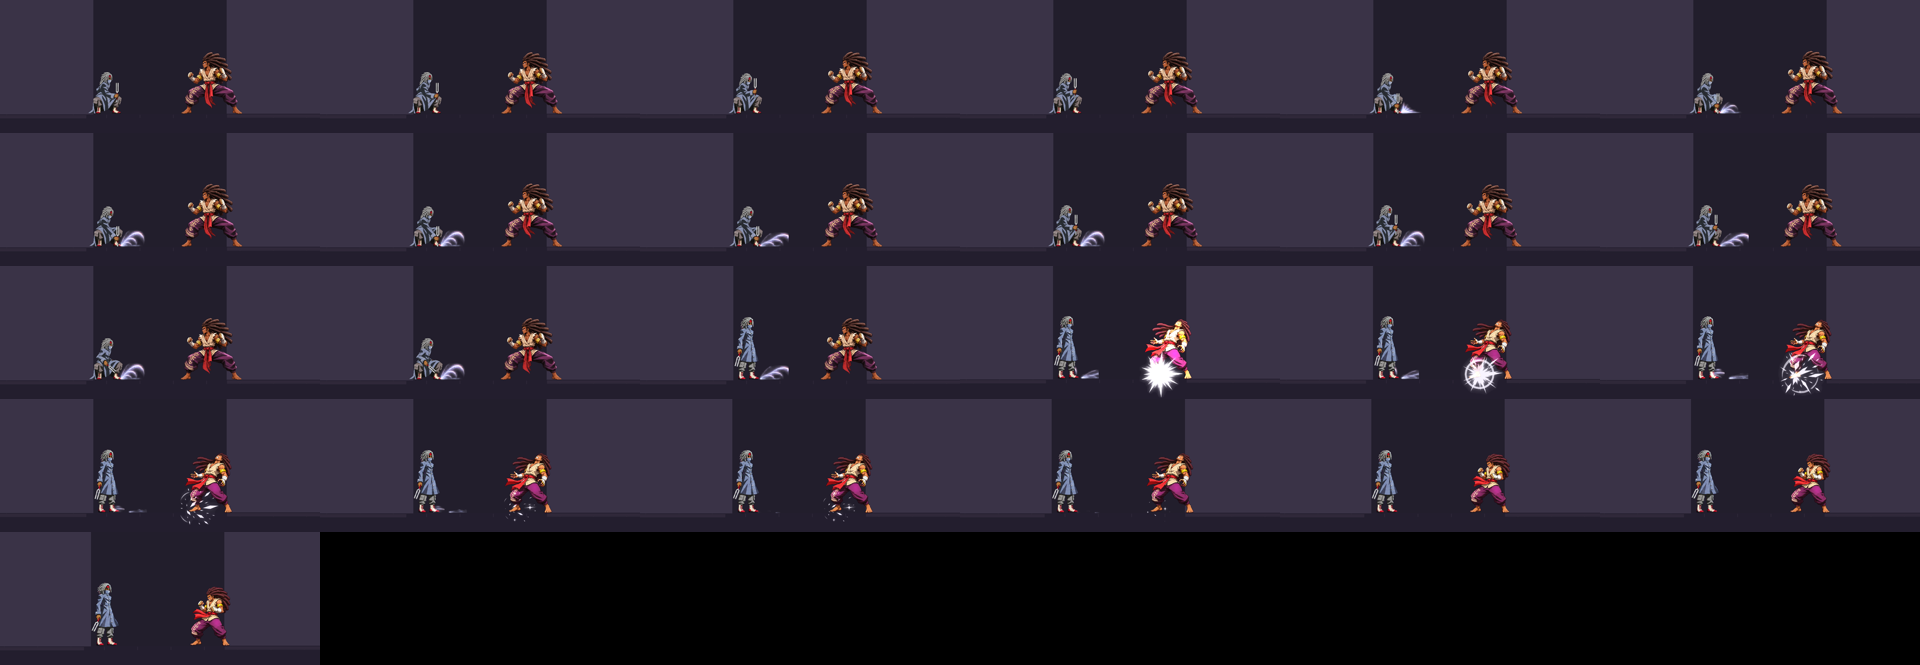
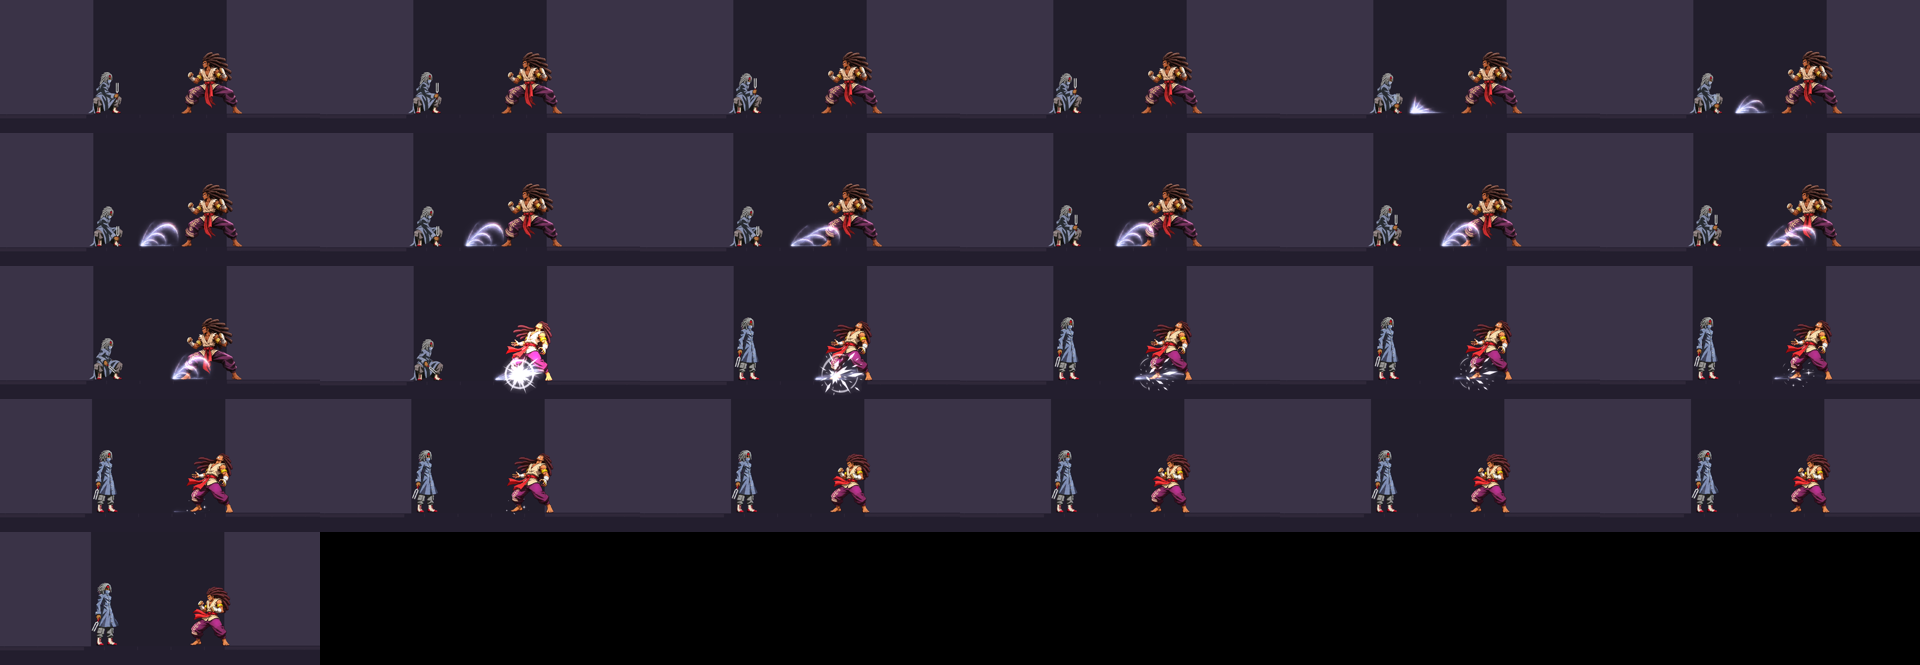
War'Teun: dashes match Avner's distance, explosions half size, 2M ripple fixed
Ground dashes no longer run underneath the teleport (601 / 438 px from a real double tap,
now 197 / 186 like Avner; tested with real inputs). burstArt.scale halves the drawn burst.
The ripple is recut on its grid and drawn on the moving projectile. Includes the owner's
box-editor changes to the character file made meanwhile.

Claude-Session: https://claude.ai/code/session_01XDQqBAyT34HEXnArFczUN3

diff --git a/tests/warteun.test.js b/tests/warteun.test.js
@@ -109,10 +109,6 @@ test('Vacuum: the burst is a mid that is blocked holding either way; out of rang
 
 test('Vacuum: his dashes and air dash leave none; his warping normals, j.S and the special warps each leave one', () => {
   for (const s of ['dashF', 'backdash']) { const g = setup(W, 1000); play(g, W, s, 25); assert.equal(vacs(g).length, 0, s); }
-  const g0 = setup(W, 1000);
-  const x0 = g0.players[0].x;
-  play(g0, W, 'dashF', 25);
-  assert.equal(g0.players[0].x, x0 + px(FILE.states.dashF.timeline.find((e) => e.warp).warp.x), 'the dash is a teleport of that distance');
   for (const s of ['airdashF', 'airdashB']) {
     const g = setup(W, 1000);
     g.players[0].y = px(200);
@@ -141,6 +137,48 @@ test('Vacuum: his dashes and air dash leave none; his warping normals, j.S and t
   const dists = ['L', 'M', 'H'].map((b) => rawMove(`warpStep${b}`).timeline.find((e) => e.warp).warp.x);
   assert.ok(fuses[0] < fuses[1] && fuses[1] < fuses[2]);
   assert.ok(dists[0] < dists[1] && dists[1] < dists[2]);
+});
+
+test("His ground dashes, done with real double taps, cover exactly Avner's distance and he does not slide", () => {
+  const AVNER = loadChar('data/characters/avner/avner.toska.json');
+  const WA = loadWorld(AVNER, AVNER);
+  WA.battle.maxGapUnits = 0;
+  for (const [name, taps, state] of [['forward', '6 5 6 5*70', 'dashF'], ['back', '4 5 4 5*70', 'backdash']]) {
+    const travel = (world) => {
+      const g = setup(world, 1200);
+      const p = g.players[0];
+      const x0 = p.x;
+      const xs = [];
+      let dashed = false;
+      for (const r of script(taps)) { step(g, [r, 0], world); dashed = dashed || p.state === state; if (p.state === state) xs.push(p.x); }
+      assert.ok(dashed, `${name}: the dash came out`);
+      return { total: p.x - x0, xs };
+    };
+    const his = travel(W), avners = travel(WA);
+    assert.equal(his.total, avners.total, `${name} dash: the same distance as Avner's`);
+    // A teleport: during the dash he stands in one place, then in another. Never anything in between.
+    assert.equal(new Set(his.xs).size, 2, `${name} dash: he does not slide`);
+  }
+});
+
+test("2M's ripple travels along the floor and its picture travels with it", () => {
+  const R = FILE.projectiles.ripple;
+  assert.ok(!R.sprite.ground && !R.sprite.rooted, 'drawn on the moving hit, not pinned where it began');
+  const g = setup(W, 1200);
+  const seen = [];
+  for (const r of script('2+M 2*60')) { step(g, [r, 0], W); const q = g.projectiles.find((x) => x.kind === 'ripple'); if (q) seen.push(q.x); }
+  assert.ok(seen.length > 30);
+  const went = (seen[seen.length - 1] - seen[0]) / 100;
+  assert.ok(went > 280 && went < 360, `it runs about a third of the screen (${went} px)`);
+  // It hits low, where its picture is.
+  const h = setup(W, 300);
+  const cues = [];
+  for (const r of script('2+M 2*50')) { step(h, [r, 0], W); cues.push(...h.cues.map((c) => ({ ...c }))); }
+  assert.ok(cues.some((c) => HIT.includes(c.type) && c.move === 'ripple'), 'it reaches a standing opponent 300 px away');
+  const b = setup(W, 150); // nearer: holding back walks them away from it
+  const blocked = [];
+  for (const r of script('2+M 2*50')) { step(b, [r, RAW.RIGHT], W); blocked.push(...b.cues.map((c) => c.type)); }
+  assert.ok(blocked.some((t) => HIT.includes(t)) && !blocked.includes('block'), 'standing guard does not stop it: it is a low');
 });
 
 test('5H and 6H step forward but never through the opponent: they stop in front', () => {

diff --git a/src/render/fight-renderer.js b/src/render/fight-renderer.js
@@ -691,7 +691,7 @@ export function createFightRenderer(ctx, W, H) {
       drawSheetFrame(def, d.sprite, Math.min(d.sprite.count - 1, index), x, y, pr.facing);
       return;
     }
-    const t = pr.age - pr.boom, k = (pr.size ?? 10000) / 10000;
+    const t = pr.age - pr.boom, k = ((pr.size ?? 10000) / 10000) * (A.scale ?? 1); // burstArt.scale: the burst layers' own size
     const sized = (sp) => (k === 1 ? sp : { ...sp, scale: (sp.scale ?? 1) * k });
     const layer = (L, age, lift = 0) => {
       if (!L || age < 0) return;

diff --git a/CLAUDE.md b/CLAUDE.md
@@ -61,7 +61,7 @@ doesn't read code. **Every report to him is in plain words.**
 Current through **Phase 9** (all phases of the brief done), plus **Avner: Brand of Light** (report `docs/reports/avner-brand.md`) and his art (`avner-art.md`, `avner-hook.md`, `avner-moves.md`, `avner-vigil.md`).
 
 - **Avner is the Lampbearer now** (Nov 23; report `docs/reports/avner-lampbearer.md`, tests `tests/lampbearer.test.js`). The old chain kit (Brand of Light, Vigil, Lumen Hook, Reel, Lightstep: the two bullets marked *archived* below) lives whole in `data/characters/_archive/avner_chain/` (not loaded by the game; its tests `avner-moves`, `avner-vigil`, `brand` and part of `rite` read it there). Live kit, all data: lantern normals (`backHeavy` = 4H Crescent Kick), Rising Moon `risingMoonL/M/H` (236; `spawn: { name: "risingMoon", x }` on frame 9 / 13 / 17, EX `{ under: "opponent" }` of `risingMoonEx`), Lunar Halo `haloL/M/H` (623; a circle of boxes, `fx` `haloBurstL/M/H`), Tide `tideL/M/H` (214; projectile with `ownerOnHit: "tidePull"` and `pull`), the Rite Moonlit (`moonlit5/6/2/J` place projectile `crescent`, a `noHit` `persist` light with a `zone`; `moonSnap` = R with var `moonmark`, `remote`; `moonRecall` = R without; var `moonCooldown` 240 set by the crescent's `onEnd`), supers `newMoon` (236236S) and `fullMoon` (214214S, level 3, `requires: { meter: 400 }`, projectile `moonColumn`). Engine pieces, general (character.js / fighter.js / combat.js): timeline `spawn` as `{ name, x, y, under: "opponent" }`, timeline `endProjectile`, projectile `phases` (hitbox live only at those ages), `persist` (stays after its hit, never clashes; `pr.hit`), `noHit`, `zone` (`inZone` in fighter.js: gravity share in `move`, mark var in `applyStrike`), `onEnd.setVar`, `ownerOnHit` (`pr.from`), move fields `oneAtATime` as a list, `needsOut`, `hitsAirborne: false`, `noZoneMark`. Drawing only: top-level `art` (`def.art`; `ruleFrame` / `exitArt` / `drawLantern` in fight-renderer.js): `byVy` (air drawings by vertical speed), `exit` (drawings that finish playing in the next state), `guard` (guard drawing while holding back from an attack), `lantern` (moon phase by Devotion bars, at the lantern's measured place per drawing), move `pinFx`; effects and `hitFx` take `holds`. Sheets: `node scripts/avner-prep.mjs` (drawn `Avner_*.png` → `sheets/`, `previews/` contact sheets and GIFs, `sheets/manifest.json` with sprite blocks and lantern points; per-sheet table at the top of the script); `node scripts/make-lantern-phases.mjs`; `node scripts/shots.mjs <folder> lamp` for in-game pictures. An explicit sprite order on a state (crouch, `tidePull`, blocks) = `holds: [whole length]` plus timeline `sprite` events. Placeholders are listed in the report. Tide and Rising Moon (and their EX) carry a hand-written `cancels` window into the ground Rite moves, on whiff / hit / block, from the frame after their `spawn` (owner, Nov 23). 5H's sheet has an extra drawing (index 4) on the first hitting frame so it is held through hitstop; in `avner-prep.mjs` a sheet's `join: [[keep, loose]]` joins a shape drawn apart from its body. Air Crescent `airCrescentL/M/H` (j.236, owner Nov 23): projectiles `airCrescentL/M/H/Ex` dive (`speedY`), `endsOnGround` (ends at the floor, why `ground`), `endFx: { ground: "airCrescentBurst" }` (drawing only: a named effect where it ended); move `perJump: "airCrescent"` (one move of a group per jump: `p.airUsed`, cleared on landing) and `landTo: "airCrescentLand"`. 2H slides forward (timeline `vel`). HIT SETTINGS has a "Hits airborne" switch (`hitsAirborne`; a yes/no field with `fallback: true` reads yes when unset and writes only a no).
-- **War'Teun** (owner's brief, Nov 26; branch `warteun`; report `docs/reports/warteun.md`, tests `tests/warteun.test.js`; fields in `docs/toska-format.md`). Third cast character, `data/characters/warteun/` (raw art untouched in `data/characters/War'Teun/`). New general rules, all data-driven: timeline `warp` (`x` / `y`, `behind` + `gap`, `behindIf: "<var>"`, `swap`), `detonate`, `catch` (fighter.js `fireOnEnter(game, p, def, world)`; the catch is kind `'catch'` in `resolveStrike`), burst projectiles (`burst` block: `pr.fuse`, `pr.boom`, `pr.lv`, `pr.size`, `pr.dmg`, `pr.hit`; the pull is in `moveProjectiles`, the burst in `resolveProjectiles`, `scaledBox`), a var's `drain` (`p.varIdle`, `tickDrains`, called in `step` after `tickRite`). His kit: projectile `vacuum` (every warping move `spawn`s it with its own `fuse` on the same frame as, and listed before, its `warp`), vars `resonance` (6 = one level; normals add 2, specials 3; drain 6 after 180 frames) and `wiretap` (360 frames, `mark`), `warpStepL/M/H` (236), `displacementL/M/H` (214), `airWarpL/M/H` (j.214), `listenL/M/H` (623; `catch` → his own state `listenWarp`), `wiretapL/M/H` (22), `tune` (5R; a Rite move with no gauge), `swap` (236S, one bar), teleport dashes as his own `states` (`dashF`, `backdash`, `airdashF/B`). No throws and no supers (none in the brief). Drawing: `drawBurst` in fight-renderer.js (projectile `burstArt`), a ring from the `projBurst` cue, `varPips` in hud.js. Sheets: `node scripts/avner-prep.mjs --char warteun` (table `scripts/warteun-sheets.mjs`; `G` = shape-finding, `D` = cut on the grid for dissolving drawings). Pictures: `node scripts/shots.mjs <folder> wt` (`WT_EVERY=2` films every second frame), `node scripts/warteun-screen.mjs <folder> --url <dev server>` (real screen and frame time). His character file was written once by a throwaway generator: edit it in place from now on. In a test, `enterState` then `step` runs the state's frame 1 first (frame 0 is skipped). **Owner's changes the same day:** sheets carry `scales: [..]` (a hand-given size factor per drawing, a new `avner-prep` option: his action drawings were bigger than the upright pose that sizes each sheet; factors measured from his head and checked by eye on 5H, 5S, 6M, 4H, 6H, j.S, Warp Step); forward dash 180 px in 26 frames; Warp Step 200 / 300 / 400 px; 5H startup 16 and 6H startup 20, both with warp `stop: 60` (never through a grounded opponent); the vacuum, its fire and its smoke are painted sheets cut by `node scripts/warteun-fx.mjs` (not avner-prep; smoke's white paper keyed out) and drawn with normal blending by `drawBurst` (`burstArt.fire` / `smoke` / `shake`); burst `delay: 1` puts the hit on the fire's second drawing. After a recut, a sprite block's `frameW` / `frameH` / `originX` / `originY` must be copied from `sheets/manifest.json`.
+- **War'Teun** (owner's brief, Nov 26; branch `warteun`; report `docs/reports/warteun.md`, tests `tests/warteun.test.js`; fields in `docs/toska-format.md`). Third cast character, `data/characters/warteun/` (raw art untouched in `data/characters/War'Teun/`). New general rules, all data-driven: timeline `warp` (`x` / `y`, `behind` + `gap`, `behindIf: "<var>"`, `swap`), `detonate`, `catch` (fighter.js `fireOnEnter(game, p, def, world)`; the catch is kind `'catch'` in `resolveStrike`), burst projectiles (`burst` block: `pr.fuse`, `pr.boom`, `pr.lv`, `pr.size`, `pr.dmg`, `pr.hit`; the pull is in `moveProjectiles`, the burst in `resolveProjectiles`, `scaledBox`), a var's `drain` (`p.varIdle`, `tickDrains`, called in `step` after `tickRite`). His kit: projectile `vacuum` (every warping move `spawn`s it with its own `fuse` on the same frame as, and listed before, its `warp`), vars `resonance` (6 = one level; normals add 2, specials 3; drain 6 after 180 frames) and `wiretap` (360 frames, `mark`), `warpStepL/M/H` (236), `displacementL/M/H` (214), `airWarpL/M/H` (j.214), `listenL/M/H` (623; `catch` → his own state `listenWarp`), `wiretapL/M/H` (22), `tune` (5R; a Rite move with no gauge), `swap` (236S, one bar), teleport dashes as his own `states` (`dashF`, `backdash`, `airdashF/B`). No throws and no supers (none in the brief). Drawing: `drawBurst` in fight-renderer.js (projectile `burstArt`), a ring from the `projBurst` cue, `varPips` in hud.js. Sheets: `node scripts/avner-prep.mjs --char warteun` (table `scripts/warteun-sheets.mjs`; `G` = shape-finding, `D` = cut on the grid for dissolving drawings). Pictures: `node scripts/shots.mjs <folder> wt` (`WT_EVERY=2` films every second frame), `node scripts/warteun-screen.mjs <folder> --url <dev server>` (real screen and frame time). His character file was written once by a throwaway generator: edit it in place from now on. In a test, `enterState` then `step` runs the state's frame 1 first (frame 0 is skipped). **Owner's changes the same day:** sheets carry `scales: [..]` (a hand-given size factor per drawing, a new `avner-prep` option: his action drawings were bigger than the upright pose that sizes each sheet; factors measured from his head and checked by eye on 5H, 5S, 6M, 4H, 6H, j.S, Warp Step); ground dashes are pure teleports that cover exactly Avner's distance from a real double tap (197 px forward, 186 back: each state starts with `vel x 0` because the shared dash speed otherwise runs underneath the warp; a test compares him to Avner with real inputs); `burstArt.scale: 0.5` halves the drawn fire / smoke / ring (not the hitbox); 2M's ripple is cut by `warteun-fx.mjs` too and drawn on the moving projectile (never `ground`, which pins a picture where it began); Warp Step 200 / 300 / 400 px; 5H startup 16 and 6H startup 20, both with warp `stop: 60` (never through a grounded opponent); the vacuum, its fire and its smoke are painted sheets cut by `node scripts/warteun-fx.mjs` (not avner-prep; smoke's white paper keyed out) and drawn with normal blending by `drawBurst` (`burstArt.fire` / `smoke` / `shake`); burst `delay: 1` puts the hit on the fire's second drawing. After a recut, a sprite block's `frameW` / `frameH` / `originX` / `originY` must be copied from `sheets/manifest.json`.
 - **Brand of Light** (*archived kit*; Avner's old mechanic, all data): var `brand` (frames, 300 max, -1 per frame, `display: timer`,
   `mark`). Lumen Hook (`hookL/M/H`, 236 + L/M/H) adds 300 on hit and gatlings into `reel` / `lightstep` on hit
   only. Reel (214H) and Lightstep (214L) `require` brand ≥ 1 and `setVar` it to 0 on frame 0. Engine pieces, general

diff --git a/docs/reports/warteun.md b/docs/reports/warteun.md
@@ -169,3 +169,19 @@ Things to know:
 Measured again: best meterless combo 3,399 (34%), Displacement into a full combo 3,927 (39%), nothing over 50%.
 Frame time with three vacuums, the mark and the new effects: 9.4 ms average, 15.9 ms worst 5% (inside the 16.7
 budget; the earlier 16.8 was the old light-blended burst), worst single frame 18.1 ms. `npm test`: 485 of 485.
+
+## Second round of play-test changes (Nov 26)
+
+- **Dashes: my bug, fixed.** The dashes were meant to be pure teleports, but the engine's ordinary dash run was
+  still going underneath, so a real double tap carried him 601 px forward and 438 back (the "180 px" above was
+  only the teleport part). The run is switched off. Measured with real inputs he now covers exactly Avner's
+  distance: 197 px forward, 186 px back, standing still before and after. A test compares him to Avner with real
+  double taps, so it cannot hide again. Air dashes measured clean (240 forward, 200 back, no drift); untouched.
+- **Explosions at half size.** Fire, smoke and the ruby ring are drawn at 50% (one number, `burstArt.scale`). They
+  still grow with Resonance and resonating. The waiting sphere and the hitbox are unchanged, so at Resonance 0 the
+  fire is a little smaller than the area that hits.
+- **2M's ripple: two faults of mine, fixed.** Its picture was pinned at his feet while the hit travelled away
+  unseen, and drawings 4 to 8 were cut into pieces. It is recut on its even grid and drawn on the moving hit; the
+  hitbox sits under the arc. A test checks it travels (320 px) and hits low.
+
+`npm test`: 487 of 487. Frame time: 9.1 ms average, 14.5 ms worst 5%, worst single frame 19.6 ms.

diff --git a/docs/toska-format.md b/docs/toska-format.md
@@ -272,7 +272,7 @@ owner's var makes the box `sizePct` bigger and the damage `damagePct` higher. `r
 several within `gap` px they become one burst at their middle, `pct` percent of the size and damage. While the
 owner's `markVar` is above 0 the pull range is `markRangePct` percent. A burst is blocked holding either way, knocks
 away from its own centre and never clashes. Cue `projBurst { name, x, y, lv, size, joined }`. Drawing only:
-`"burstArt": { "start": holds, "fuseLoop": holds, "collapse": [drawings spread over the collapse], "burst": holds (the
+`"burstArt": { "scale": the burst layers' own size (drawing only, the hitbox is not touched), "start": holds, "fuseLoop": holds, "collapse": [drawings spread over the collapse], "burst": holds (the
 sheet's remaining drawings, on top), "fire": { sprite, holds, opacity }, "smoke": { sprite, holds, opacity, delay,
 rise } (under the fire, drifting up), "shake": { at, px, perLevel }, "ring": { "from": level, "set": "<shockwave
 set>" } }`. All of it is drawn with normal blending and enlarged by the burst's size; the projectile's own sheet is
